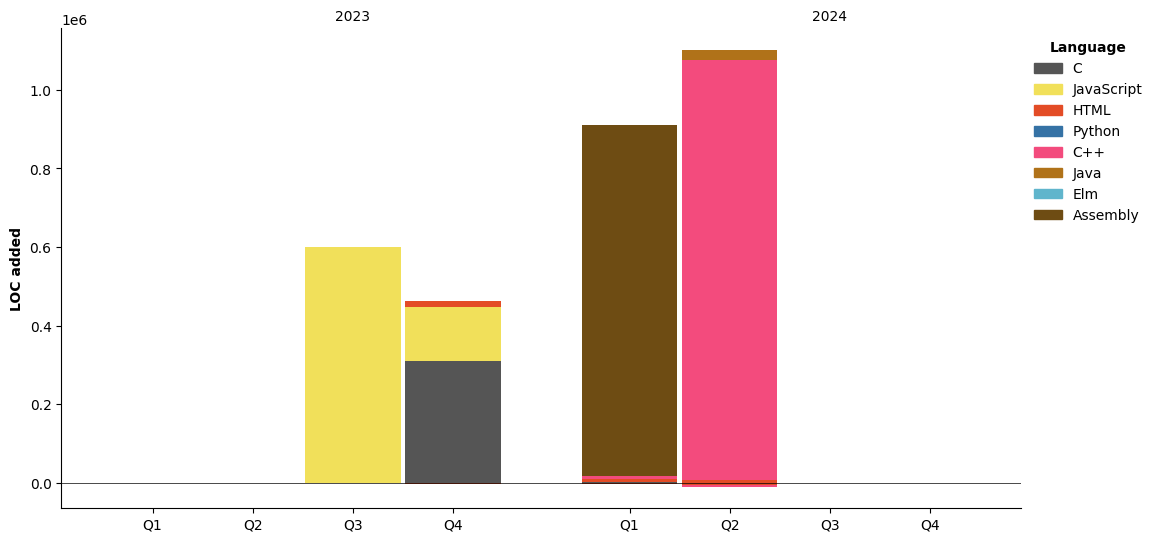
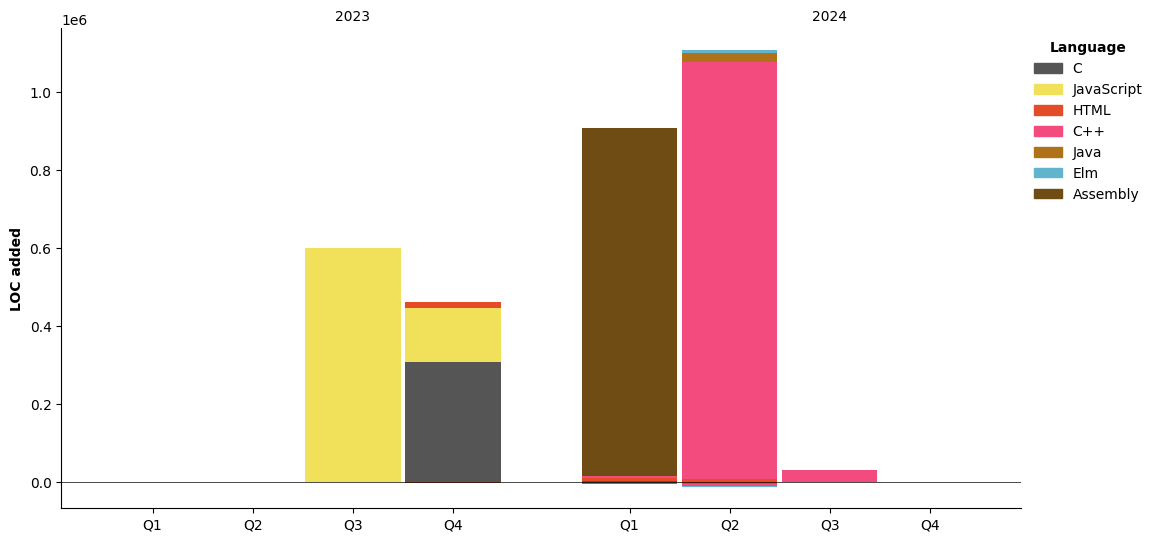
Updated with Dev Metrics

diff --git a/README.md b/README.md
@@ -3,9 +3,91 @@
 ## **About Me:**
 
 <!--START_SECTION:waka-->
-![Code Time](http://img.shields.io/badge/Code%20Time-359%20hrs%2029%20mins-blue)
+![Code Time](http://img.shields.io/badge/Code%20Time-366%20hrs%2030%20mins-blue)
+
+![Profile Views](http://img.shields.io/badge/Profile%20Views-8-blue)
+
+**🐱 My GitHub Data** 
+
+> 📦 203.7 kB Used in GitHub's Storage 
+ > 
+> 🏆 368 Contributions in the Year 2024
+ > 
+> 🚫 Not Opted to Hire
+ > 
+> 📜 12 Public Repositories 
+ > 
+> 🔑 8 Private Repositories 
+ > 
+**I'm an Early 🐤** 
+
+```text
+🌞 Morning                72 commits          ████░░░░░░░░░░░░░░░░░░░░░   14.37 % 
+🌆 Daytime                213 commits         ███████████░░░░░░░░░░░░░░   42.51 % 
+🌃 Evening                192 commits         ██████████░░░░░░░░░░░░░░░   38.32 % 
+🌙 Night                  24 commits          █░░░░░░░░░░░░░░░░░░░░░░░░   04.79 % 
+```
+📅 **I'm Most Productive on Tuesday** 
+
+```text
+Monday                   62 commits          ███░░░░░░░░░░░░░░░░░░░░░░   12.38 % 
+Tuesday                  109 commits         █████░░░░░░░░░░░░░░░░░░░░   21.76 % 
+Wednesday                102 commits         █████░░░░░░░░░░░░░░░░░░░░   20.36 % 
+Thursday                 96 commits          █████░░░░░░░░░░░░░░░░░░░░   19.16 % 
+Friday                   62 commits          ███░░░░░░░░░░░░░░░░░░░░░░   12.38 % 
+Saturday                 35 commits          ██░░░░░░░░░░░░░░░░░░░░░░░   06.99 % 
+Sunday                   35 commits          ██░░░░░░░░░░░░░░░░░░░░░░░   06.99 % 
+```
 
 
+📊 **This Week I Spent My Time On** 
+
+```text
+🕑 Time Zone: Asia/Shanghai
+
+💬 Programming Languages: 
+C++                      7 hrs 10 mins       ████████████░░░░░░░░░░░░░   46.31 % 
+Elm                      5 hrs 23 mins       █████████░░░░░░░░░░░░░░░░   34.78 % 
+Go                       1 hr 52 mins        ███░░░░░░░░░░░░░░░░░░░░░░   12.10 % 
+Other                    26 mins             █░░░░░░░░░░░░░░░░░░░░░░░░   02.89 % 
+Markdown                 18 mins             █░░░░░░░░░░░░░░░░░░░░░░░░   02.01 % 
+
+🔥 Editors: 
+VS Code                  14 hrs 26 mins      ███████████████████████░░   92.01 % 
+GoLand                   45 mins             █░░░░░░░░░░░░░░░░░░░░░░░░   04.84 % 
+IntelliJ IDEA            16 mins             ░░░░░░░░░░░░░░░░░░░░░░░░░   01.71 % 
+Intellijidea             13 mins             ░░░░░░░░░░░░░░░░░░░░░░░░░   01.42 % 
+Neovim                   0 secs              ░░░░░░░░░░░░░░░░░░░░░░░░░   00.03 % 
+
+🐱💻 Projects: 
+EECS281                  7 hrs 12 mins       ████████████░░░░░░░░░░░░░   46.51 % 
+Project2                 5 hrs 23 mins       █████████░░░░░░░░░░░░░░░░   34.79 % 
+jcourse_go               2 hrs 7 mins        ███░░░░░░░░░░░░░░░░░░░░░░   13.74 % 
+p2team15                 25 mins             █░░░░░░░░░░░░░░░░░░░░░░░░   02.71 % 
+jcourse_vite             11 mins             ░░░░░░░░░░░░░░░░░░░░░░░░░   01.28 % 
+
+💻 Operating System: 
+Linux                    15 hrs 28 mins      █████████████████████████   100.00 % 
+```
+
+**I Mostly Code in C++** 
+
+```text
+C++                      6 repos             █████████░░░░░░░░░░░░░░░░   37.50 % 
+C                        2 repos             ███░░░░░░░░░░░░░░░░░░░░░░   12.50 % 
+Java                     1 repo              ██░░░░░░░░░░░░░░░░░░░░░░░   06.25 % 
+Elm                      1 repo              ██░░░░░░░░░░░░░░░░░░░░░░░   06.25 % 
+Go                       1 repo              ██░░░░░░░░░░░░░░░░░░░░░░░   06.25 % 
+```
+
+
+
+**Timeline**
+
+![Lines of Code chart](https://raw.githubusercontent.com/Risc-lt/Risc-lt/main/assets/bar_graph.png)
+
+
+ Last Updated on 12/07/2024 05:31:15 UTC
 <!--END_SECTION:waka-->
 
 🔭 My name is Risc_lt, a trivial undergraduate student from **@SJTU** and maybe somehow also **@UMich**. 
